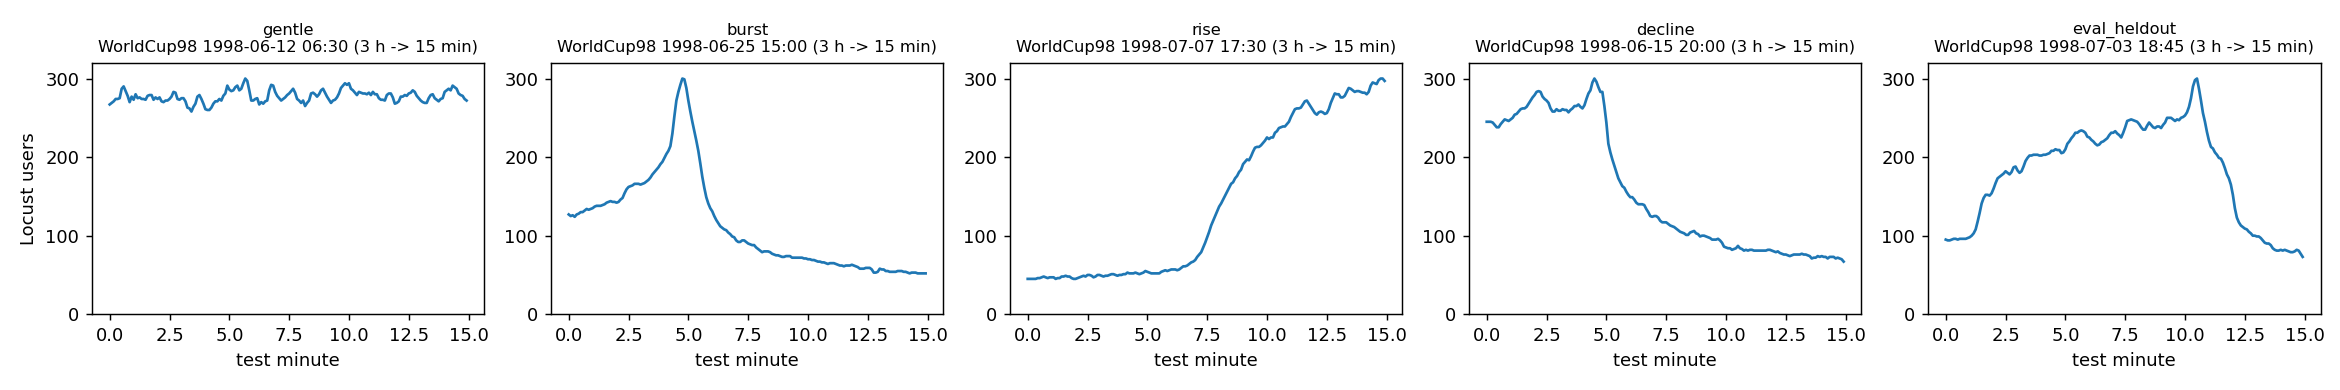
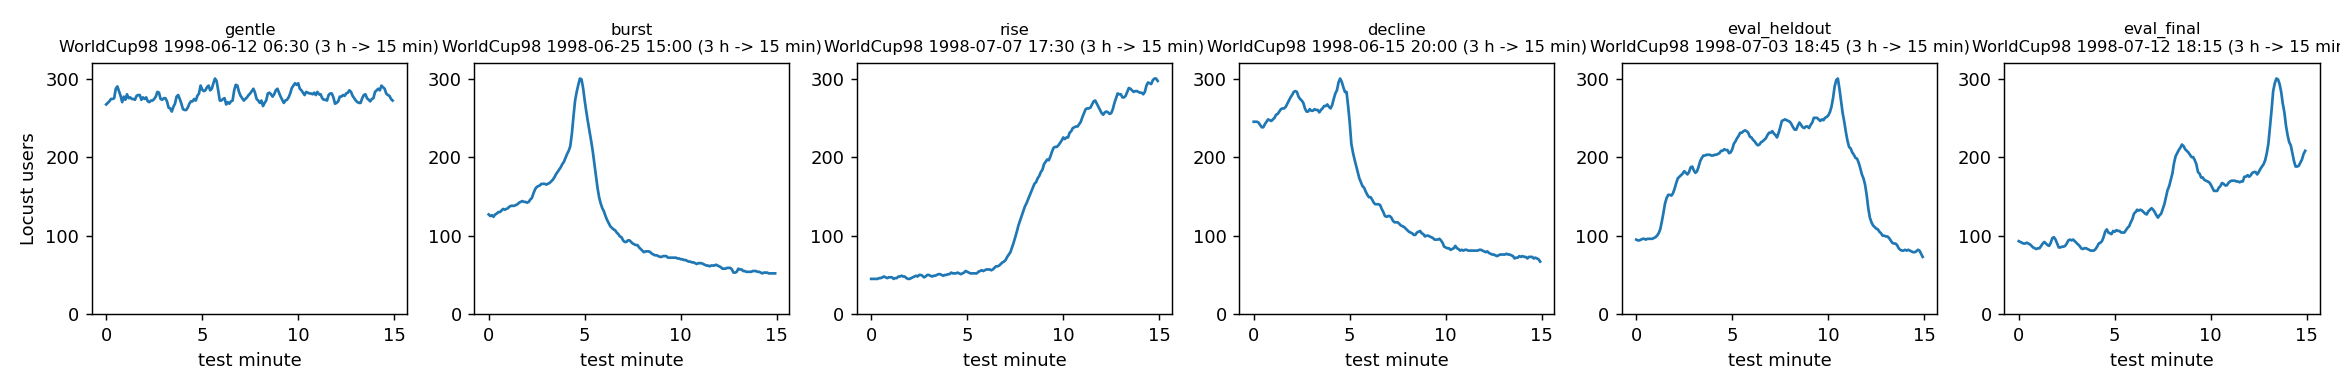
Add second held-out workload eval_final (WorldCup98 12 Jul 1998 18:15). Pre-registered 9 Nov 2026, before any run: window with >=2 prominent peaks and highest peak/median on unused tournament days.

diff --git a/make_workloads.py b/make_workloads.py
@@ -24,10 +24,16 @@ Segments (start time, GMT as in the trace)
   rise          1998-07-07 17:30   strong steady increase
   decline       1998-06-15 20:00   high, then strong decrease
   eval_heldout  1998-07-03 18:45   mixed (rise, peak, fall); from days not used for training
+  eval_final    1998-07-12 18:15   two separate peaks (day of the final); second held-out shape
 Training shapes were picked from automatically ranked 3-hour windows (burst ratio, slope,
 monotonicity, variation) during the tournament (10 June - 12 July 1998). The held-out shape
 was chosen from 30 June - 3 July as the window whose smoothed peak is in the middle
 (40-70 % of the window) with the largest peak / first-30-minutes ratio.
+The second held-out shape (eval_final) was fixed BEFORE the final evaluation with a different
+rule, to test generalisation to an unseen pattern: among all 3-hour windows on tournament days
+not used so far (10 June - 12 July, excluding 12, 15, 25 June, 30 June - 3 July and 7 July), the
+window with at least two prominent peaks (prominence >= 15 % of the maximum) and the highest
+peak / median ratio.
 """
 import argparse, os, urllib.request
 from concurrent.futures import ThreadPoolExecutor
@@ -35,7 +41,8 @@ import numpy as np, pandas as pd
 
 BASE = "https://raw.githubusercontent.com/AndrewLawrence80/WorldCup98/HEAD/GroupedLog/"
 SEGMENTS = {"gentle": "1998-06-12 06:30", "burst": "1998-06-25 15:00", "rise": "1998-07-07 17:30",
-            "decline": "1998-06-15 20:00", "eval_heldout": "1998-07-03 18:45"}
+            "decline": "1998-06-15 20:00", "eval_heldout": "1998-07-03 18:45",
+            "eval_final": "1998-07-12 18:15"}
 PEAK, FLOOR, SPEED, LENGTH = 300, 20, 12, 180
 
 ap = argparse.ArgumentParser()
@@ -71,7 +78,7 @@ for name, start in SEGMENTS.items():
 
 try:
     import matplotlib; matplotlib.use("Agg"); import matplotlib.pyplot as plt
-    fig, ax = plt.subplots(1, 5, figsize=(18, 3))
+    fig, ax = plt.subplots(1, len(SEGMENTS), figsize=(18, 3))
     for k, name in enumerate(SEGMENTS):
         d = pd.read_csv(os.path.join(a.out, f"{name}.csv"))
         ax[k].plot(d.t_sec / 60, d.users); ax[k].set_ylim(0, 320); ax[k].set_xlabel("test minute")
